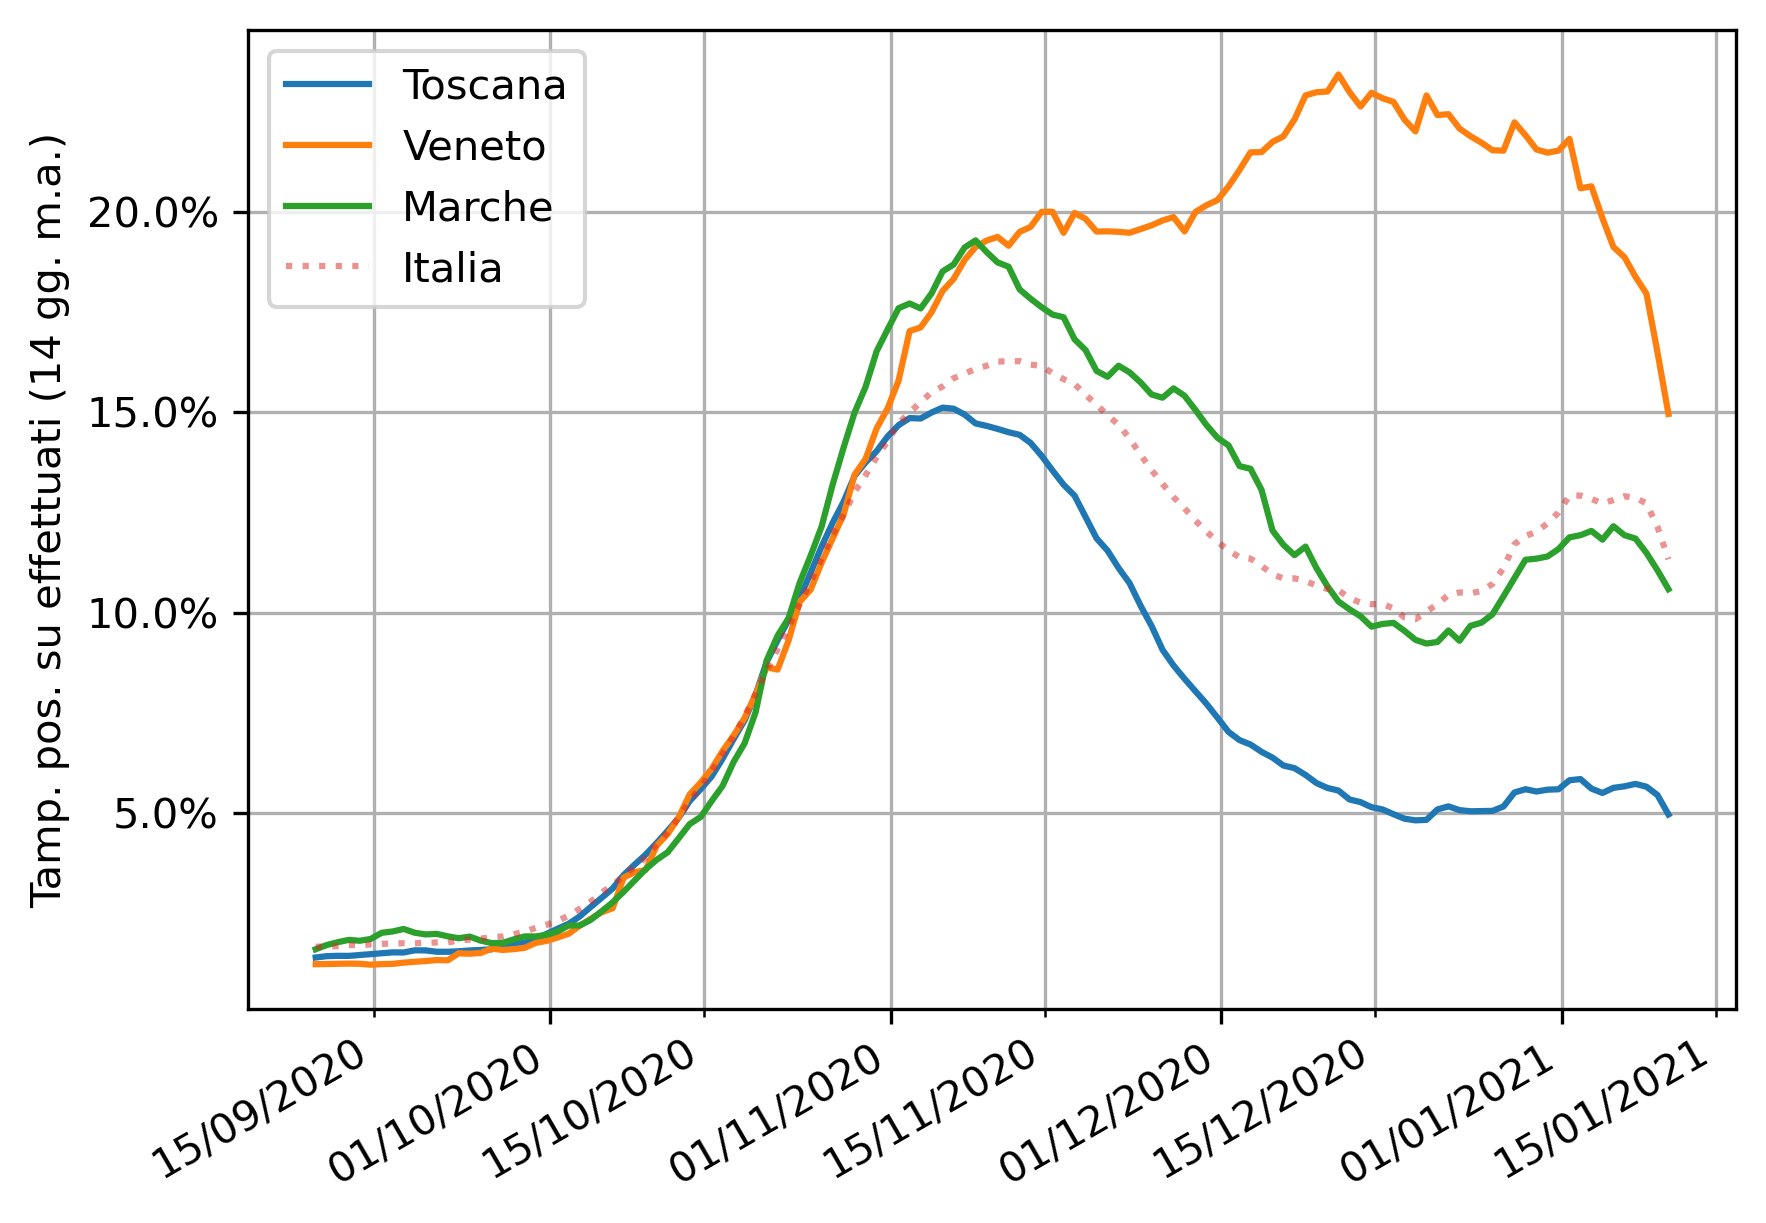
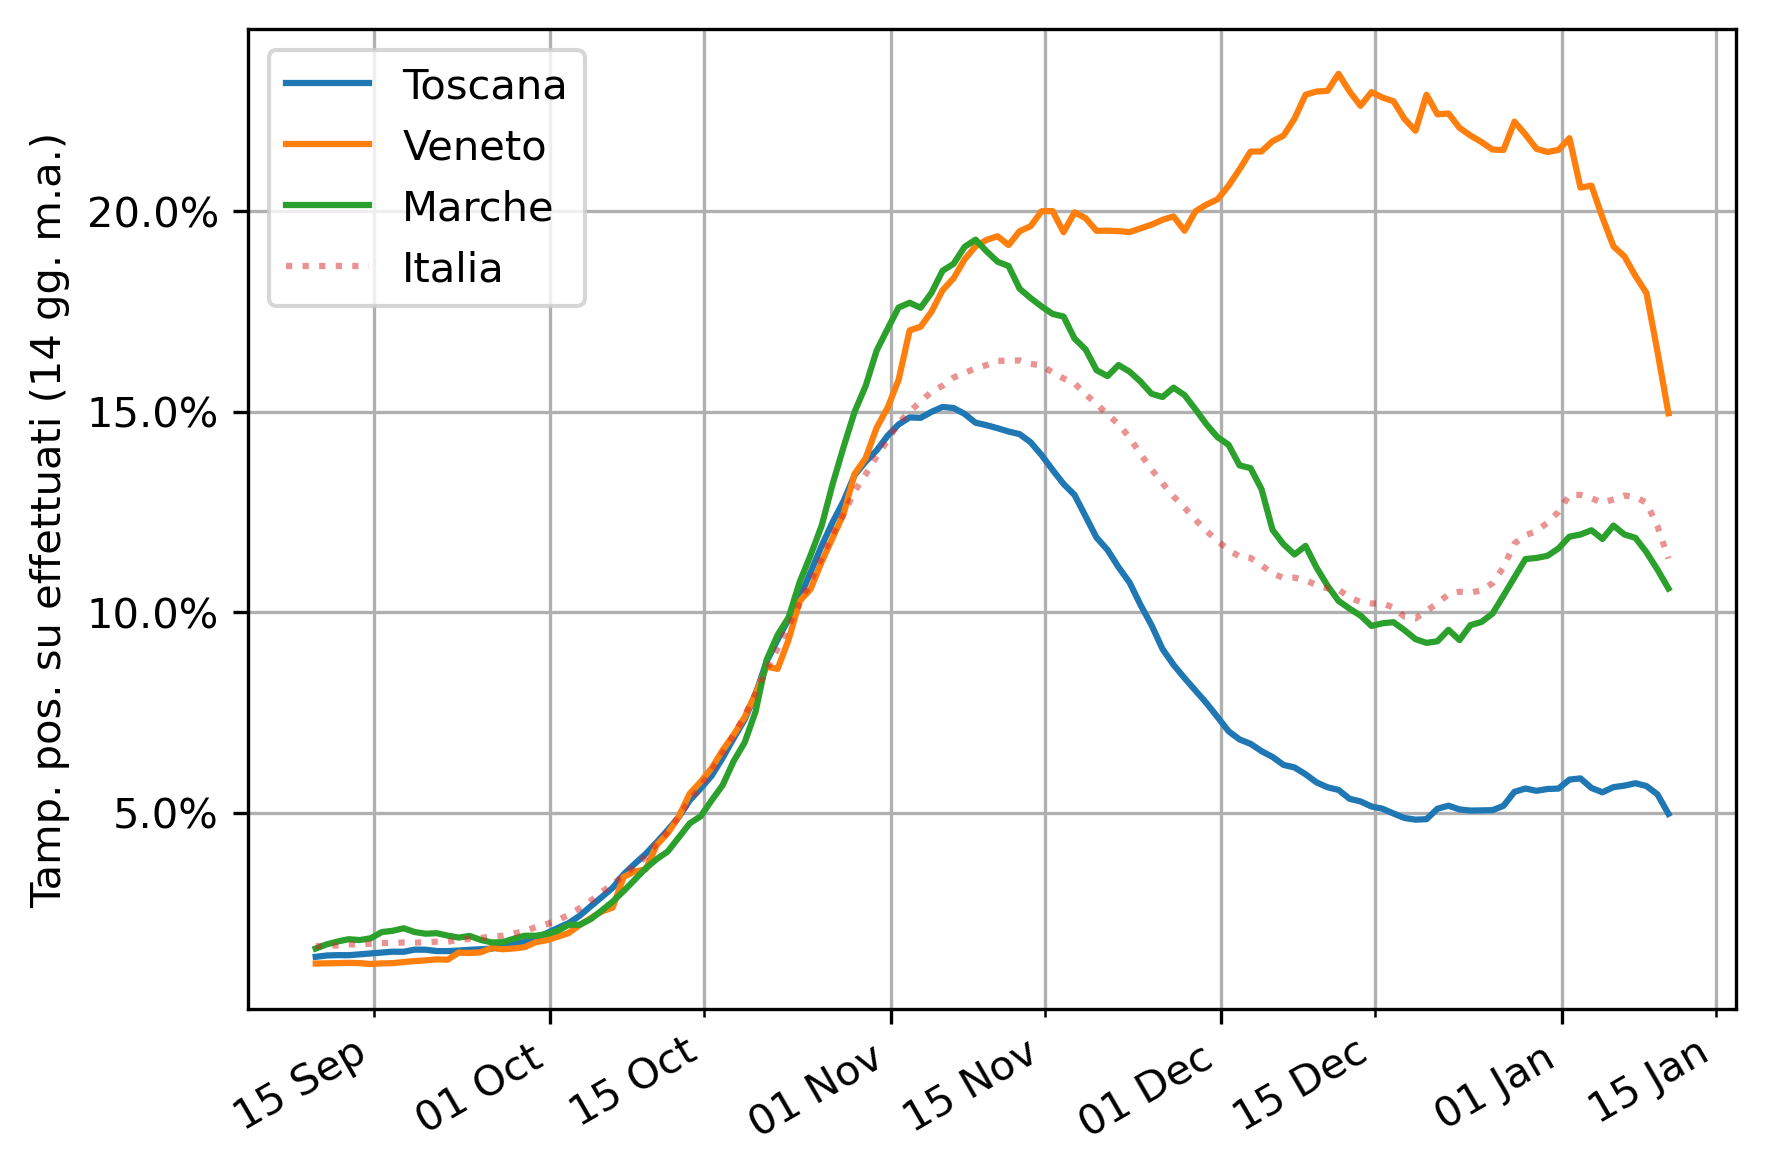
New date format

diff --git a/regions/analysis.py b/regions/analysis.py
@@ -30,8 +30,8 @@ def compute_ti_occupation_per_regions(save_image=False, show=False):
     plt.gca().yaxis.set_major_formatter(mtick.PercentFormatter(xmax=1))
     plt.gca().xaxis.set_major_locator(MonthLocator())
     plt.gca().xaxis.set_minor_locator(MonthLocator(bymonthday=15))
-    plt.gca().xaxis.set_major_formatter(DateFormatter('%d/%m/%Y'))
-    plt.gca().xaxis.set_minor_formatter(DateFormatter('%d/%m/%Y'))
+    plt.gca().xaxis.set_major_formatter(DateFormatter('%d %b'))
+    plt.gca().xaxis.set_minor_formatter(DateFormatter('%d %b'))
     plt.gcf().autofmt_xdate(which='both')
     plt.grid(True, which='both', axis='both')
     plt.ylabel('Percentuale occupaz. TI')
@@ -61,11 +61,10 @@ def compute_rt_per_regions(save_image=False, show=False):
     plt.axhline(y=1.25, color='tab:orange', linestyle='--', alpha=0.5, label="Scenario 3")
     plt.axhline(y=1, color='y', linestyle='--', alpha=0.5, label="Scenario 2")
 
-    #plt.ylim([0, 8])
     plt.gca().xaxis.set_major_locator(MonthLocator())
     plt.gca().xaxis.set_minor_locator(MonthLocator(bymonthday=15))
-    plt.gca().xaxis.set_major_formatter(DateFormatter('%d/%m/%Y'))
-    plt.gca().xaxis.set_minor_formatter(DateFormatter('%d/%m/%Y'))
+    plt.gca().xaxis.set_major_formatter(DateFormatter('%d %b'))
+    plt.gca().xaxis.set_minor_formatter(DateFormatter('%d %b'))
     plt.gcf().autofmt_xdate(which='both')
     plt.grid(True, which='both', axis='both')
     plt.ylabel('Indice RT (4 gg. m.a.)')
@@ -95,8 +94,8 @@ def compute_weekly_incidence(save_image=False, show=False):
 
     plt.gca().xaxis.set_major_locator(MonthLocator())
     plt.gca().xaxis.set_minor_locator(MonthLocator(bymonthday=15))
-    plt.gca().xaxis.set_major_formatter(DateFormatter('%d/%m/%Y'))
-    plt.gca().xaxis.set_minor_formatter(DateFormatter('%d/%m/%Y'))
+    plt.gca().xaxis.set_major_formatter(DateFormatter('%d %b'))
+    plt.gca().xaxis.set_minor_formatter(DateFormatter('%d %b'))
     plt.gcf().autofmt_xdate(which='both')
     plt.grid(True, which='both', axis='both')
     plt.ylabel('Incid. sett. pos. per 100.000 ab.')
@@ -126,8 +125,8 @@ def compute_positivity_per_regions(save_image=False, show=False):
     plt.gca().yaxis.set_major_formatter(mtick.PercentFormatter(xmax=1))
     plt.gca().xaxis.set_major_locator(MonthLocator())
     plt.gca().xaxis.set_minor_locator(MonthLocator(bymonthday=15))
-    plt.gca().xaxis.set_major_formatter(DateFormatter('%d/%m/%Y'))
-    plt.gca().xaxis.set_minor_formatter(DateFormatter('%d/%m/%Y'))
+    plt.gca().xaxis.set_major_formatter(DateFormatter('%d %b'))
+    plt.gca().xaxis.set_minor_formatter(DateFormatter('%d %b'))
     plt.gcf().autofmt_xdate(which='both')
     plt.grid(True, which='both', axis='both')
     plt.ylabel('Tamp. pos. su effettuati (14 gg. m.a.)')
@@ -154,8 +153,8 @@ def compute_rec_with_symptoms(save_image=False, show=False):
 
     plt.gca().xaxis.set_major_locator(MonthLocator())
     plt.gca().xaxis.set_minor_locator(MonthLocator(bymonthday=15))
-    plt.gca().xaxis.set_major_formatter(DateFormatter('%d/%m/%Y'))
-    plt.gca().xaxis.set_minor_formatter(DateFormatter('%d/%m/%Y'))
+    plt.gca().xaxis.set_major_formatter(DateFormatter('%d %b'))
+    plt.gca().xaxis.set_minor_formatter(DateFormatter('%d %b'))
     plt.gcf().autofmt_xdate(which='both')
     plt.grid(True, which='both', axis='both')
     plt.ylabel('Ric. con sintomi ogni 100.000 abitanti')
@@ -184,8 +183,8 @@ def compute_daily_cases(save_image=False, show=False):
 
     plt.gca().xaxis.set_major_locator(MonthLocator())
     plt.gca().xaxis.set_minor_locator(MonthLocator(bymonthday=15))
-    plt.gca().xaxis.set_major_formatter(DateFormatter('%d/%m/%Y'))
-    plt.gca().xaxis.set_minor_formatter(DateFormatter('%d/%m/%Y'))
+    plt.gca().xaxis.set_major_formatter(DateFormatter('%d %b'))
+    plt.gca().xaxis.set_minor_formatter(DateFormatter('%d %b'))
     plt.gcf().autofmt_xdate(which='both')
     plt.grid(True, which='both', axis='both')
     plt.ylabel('Nuovi pos. ogni 100.000 ab. (7 gg. m.a.)')
@@ -214,8 +213,8 @@ def compute_death(save_image=False, show=False):
 
     plt.gca().xaxis.set_major_locator(MonthLocator())
     plt.gca().xaxis.set_minor_locator(MonthLocator(bymonthday=15))
-    plt.gca().xaxis.set_major_formatter(DateFormatter('%d/%m/%Y'))
-    plt.gca().xaxis.set_minor_formatter(DateFormatter('%d/%m/%Y'))
+    plt.gca().xaxis.set_major_formatter(DateFormatter('%d %b'))
+    plt.gca().xaxis.set_minor_formatter(DateFormatter('%d %b'))
     plt.gcf().autofmt_xdate(which='both')
     plt.grid(True, which='both', axis='both')
     plt.ylabel('Dec. ogni 100.000 ab. (7 gg. m.a.)')
@@ -249,8 +248,8 @@ def compute_region_parameters(save_image=False, show=False, region_name=reg.marc
 
     plt.gca().xaxis.set_major_locator(MonthLocator())
     plt.gca().xaxis.set_minor_locator(MonthLocator(bymonthday=15))
-    plt.gca().xaxis.set_major_formatter(DateFormatter('%d/%m/%Y'))
-    plt.gca().xaxis.set_minor_formatter(DateFormatter('%d/%m/%Y'))
+    plt.gca().xaxis.set_major_formatter(DateFormatter('%d %b'))
+    plt.gca().xaxis.set_minor_formatter(DateFormatter('%d %b'))
     plt.gcf().autofmt_xdate(which='both')
     plt.grid(True, which='both', axis='both')
     plt.ylabel('Variaz. parametri')

diff --git a/provinces/analysis.py b/provinces/analysis.py
@@ -33,8 +33,8 @@ def compute_total_cases_per_provinces(save_image=False, show=False):
 
     plt.gca().xaxis.set_major_locator(MonthLocator())
     plt.gca().xaxis.set_minor_locator(MonthLocator(bymonthday=15))
-    plt.gca().xaxis.set_major_formatter(DateFormatter('%d/%m/%Y'))
-    plt.gca().xaxis.set_minor_formatter(DateFormatter('%d/%m/%Y'))
+    plt.gca().xaxis.set_major_formatter(DateFormatter('%d %b'))
+    plt.gca().xaxis.set_minor_formatter(DateFormatter('%d %b'))
     plt.gcf().autofmt_xdate(which='both')
     plt.grid(True, which='both', axis='both')
     plt.ylabel('Nuovi pos. ogni 100.000 ab. (14 gg. m.a.)')
@@ -60,8 +60,8 @@ def compute_total_cases_per_provinces_abs(save_image=False, show=False):
 
     plt.gca().xaxis.set_major_locator(MonthLocator())
     plt.gca().xaxis.set_minor_locator(MonthLocator(bymonthday=15))
-    plt.gca().xaxis.set_major_formatter(DateFormatter('%d/%m/%Y'))
-    plt.gca().xaxis.set_minor_formatter(DateFormatter('%d/%m/%Y'))
+    plt.gca().xaxis.set_major_formatter(DateFormatter('%d %b'))
+    plt.gca().xaxis.set_minor_formatter(DateFormatter('%d %b'))
     plt.gcf().autofmt_xdate(which='both')
     plt.grid(True, which='both', axis='both')
     plt.ylabel('Nuovi pos. in val. ass. (14 gg. m.a.)')

diff --git a/utils.py b/utils.py
@@ -58,11 +58,10 @@ def compute_rt(tot_cases, tot_healed, tot_death):
     # add a NaN value before the array, as diff returns an array of dimension n-7
     right_padding = np.full(7, float('NaN'))
     rt_padded = np.concatenate((column_rt, right_padding))
+    rt_smoother = np.vectorize(lambda x: math.log2(x) + 1 if (x > 2) else x)
 
-    rt_smoother = lambda x: math.log2(x) + 1 if (x > 2) else x
-    v_rt_smoother = np.vectorize(rt_smoother)
+    return rt_smoother(compute_x_days_mov_average(rt_padded, 4))
 
-    return v_rt_smoother(compute_x_days_mov_average(rt_padded, 4))
 
 def scale_per_x_inhabitants(array, population, per_inhabitants=100000):
     return array / population * per_inhabitants

diff --git a/national/analysis.py b/national/analysis.py
@@ -28,8 +28,8 @@ def compute_national_parameters(save_image=False, show=False):
 
     plt.gca().xaxis.set_major_locator(MonthLocator())
     plt.gca().xaxis.set_minor_locator(MonthLocator(bymonthday=15))
-    plt.gca().xaxis.set_major_formatter(DateFormatter('%d/%m/%Y'))
-    plt.gca().xaxis.set_minor_formatter(DateFormatter('%d/%m/%Y'))
+    plt.gca().xaxis.set_major_formatter(DateFormatter('%d %b'))
+    plt.gca().xaxis.set_minor_formatter(DateFormatter('%d %b'))
     plt.gcf().autofmt_xdate(which='both')
     plt.grid(True, which='both', axis='both')
 
